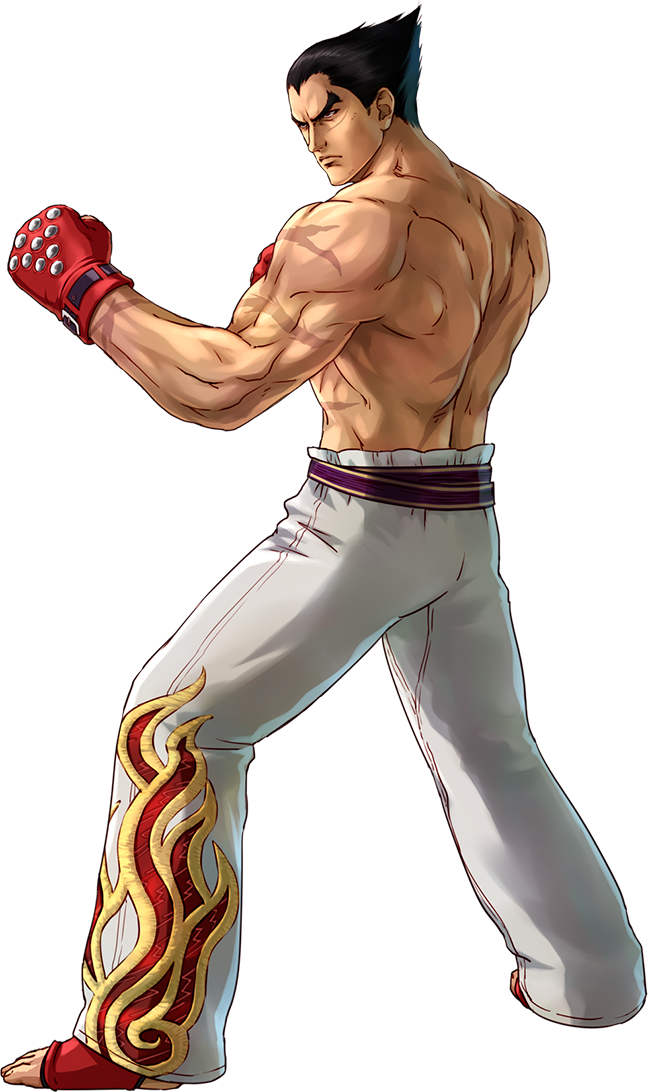
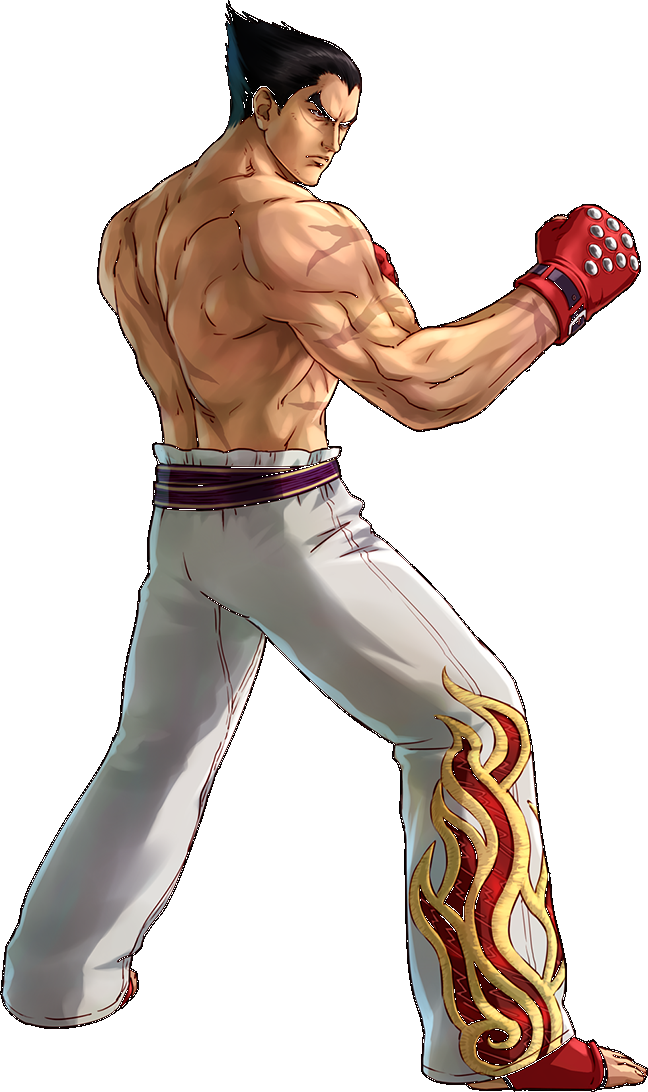
flipped works

diff --git a/src/app/components/character-select/character-select.component.ts b/src/app/components/character-select/character-select.component.ts
@@ -6,37 +6,68 @@ import { Component, OnInit } from '@angular/core';
   styleUrls: ['./character-select.component.css']
 })
 export class CharacterSelectComponent implements OnInit {
-  char1: string;
+  character1: string;
+  character1temp: string;
   char1Name: string;
-  char2: string;
+
+  character2: string;
+  character2temp: string;
   char2Name: string;
+
   currentPlayer: string;
 
   constructor() { }
 
   ngOnInit(): void {
-    this.currentPlayer = "player1";
+    this.currentPlayer = 'player1';
+    this.character1temp = 'player1';
+    this.character2temp = 'player2';
   }
 
   select(character: string) {
-
-    if(this.currentPlayer === "player1"){
-      this.char1 = character;
-      if(character === 'jin') this.char1Name = 'Jin Kazama';
-      if(character === 'kazuya') this.char1Name = 'Kazuya Mishima';
-      if(character === 'paul') this.char1Name = 'Paul Phoenix';
-      if(character === 'king') this.char1Name = 'King';
+    if (this.currentPlayer === "player1") {
+      this.character1 = character;
+      this.character1temp = character;
+      this.char1Name = this.setCharName(character);
     } else {
-      this.char2 = character;
-      if(character === 'jin') this.char2Name = 'Jin Kazama';
-      if(character === 'kazuya') this.char2Name = 'Kazuya Mishima';
-      if(character === 'paul') this.char2Name = 'Paul Phoenix';
-      if(character === 'king') this.char2Name = 'King';
+      this.character2 = character;
+      this.character2temp = character;
+      this.char2Name = this.setCharName(character);
     }
-
   }
 
-  alert(){
+  preview(character: string) {
+    if (this.currentPlayer === "player1") {
+      this.character1temp = this.character1;
+      this.character1 = character;
+      this.char1Name = this.setCharName(character);
+    } else {
+      this.character2temp = this.character2;
+      this.character2 = character;
+      this.char2Name = this.setCharName(character);
+    }
+  }
+
+  endPreview() {
+    if (this.currentPlayer === "player1") {
+      this.character1 = this.character1temp;
+      this.char1Name = this.setCharName(this.character1);
+    } else {
+      this.character2 = this.character2temp;
+      this.char2Name = this.setCharName(this.character2);
+    }
+  }
+
+  setCharName(character: string): string {
+    let charName: string;
+    if (character === 'jin') charName = 'Jin Kazama';
+    if (character === 'kazuya') charName = 'Kazuya Mishima';
+    if (character === 'paul') charName = 'Paul Phoenix';
+    if (character === 'king') charName = 'King';
+    return charName;
+  }
+
+  alert() {
     console.log(this.currentPlayer);
   }
 

diff --git a/src/app/components/character-select/character-select.component.html b/src/app/components/character-select/character-select.component.html
@@ -3,34 +3,34 @@
     <div class="title">
         <h1>Tekken</h1>
 
-        <select (click)="alert()" [(ngModel)]="currentPlayer" name="player">
+        <select [ngClass]="{'selectedRed':currentPlayer==='player1', 'selectedBlue':currentPlayer==='player2'}" (click)="alert()" [(ngModel)]="currentPlayer" name="player">
             <option value="player1">Player 1</option>
             <option value="player2">Player 2</option>
         </select>
     </div>
 
     <div class="charNames">
-        <div class="name1">{{char1Name}}</div>
-        <div class="name2">{{char2Name}}</div>
+        <div>{{char1Name}}</div>
+        <div>{{char2Name}}</div>
     </div>
 
     <div class="characters">
-        <div [ngClass]="char1"></div>
-        <div [ngClass]="char2"></div>
+        <div class="character1" [ngClass]="character1"></div>
+        <div class="character2" [ngClass]="character2"></div>
     </div>
 
     <div class="charList">
         <ul>
-            <a (mouseenter)="select('jin')" [ngClass]="{'selected':char1==='jin'}">
+            <a (click)="select('jin')" (mouseenter)="preview('jin')" (mouseleave)="endPreview()" [ngClass]="{'selectedRed':character1temp==='jin', 'selectedBlue':character2temp==='jin', 'selectedBoth': (character1temp==character2temp&&character1temp==='jin')}">
                 <li></li>
             </a>
-            <a (mouseenter)="select('paul')" [ngClass]="{'selected':char1==='paul'}">
+            <a (click)="select('paul')" (mouseenter)="preview('paul')" (mouseleave)="endPreview()" [ngClass]="{'selectedRed':character1temp==='paul', 'selectedBlue':character2temp==='paul', 'selectedBoth': (character1temp==character2temp&&character1temp==='paul')}">
                 <li></li>
             </a>
-            <a (mouseenter)="select('king')" [ngClass]="{'selected':char1==='king'}">
+            <a (click)="select('king')" (mouseover)="preview('king')" (mouseleave)="endPreview()" [ngClass]="{'selectedRed':character1temp==='king', 'selectedBlue':character2temp==='king', 'selectedBoth': (character1temp==character2temp&&character1temp==='king')}">
                 <li></li>
             </a>
-            <a (mouseenter)="select('kazuya')" [ngClass]="{'selected':char1==='kazuya'}">
+            <a (click)="select('kazuya')" (mouseover)="preview('kazuya')" (mouseleave)="endPreview()" [ngClass]="{'selectedRed':character1temp==='kazuya', 'selectedBlue':character2temp==='kazuya', 'selectedBoth': (character1temp==character2temp&&character1temp==='kazuya')}">
                 <li></li>
             </a>
         </ul>

diff --git a/src/app/components/character-select/character-select.component.css b/src/app/components/character-select/character-select.component.css
@@ -10,14 +10,18 @@
 }
 
 select {
-    padding: 5px 65px;
+    padding: 5px 77px;
     text-transform: uppercase;
+}
+
+select:focus {
+    outline: none;
 }
 
 .title {
     color: white;
     font-size: 30px;
-    margin-bottom: 30px;
+    margin-bottom: 20px;
     text-align: center;
     text-transform: uppercase;
 }
@@ -36,6 +40,10 @@ select {
 
 .characters {
     display: flex;
+}
+
+.character2{
+    transform: scaleX(-1);
 }
 
 .characters div {
@@ -60,7 +68,7 @@ select {
 
 .paul {
     background-image: url('../../../assets/characters/paul.png');
-    background-position: 100px 0px;
+    background-position: 10px 0px;
     background-size: 80%;
     background-repeat: no-repeat;
 }
@@ -111,9 +119,20 @@ select {
 }
 
 .charList ul a:hover {
-    border: 2px red solid;
+    border: 2px white solid;
 }
 
-.selected {
+.selectedRed {
     border: 2px solid red !important;
+}
+
+.selectedBlue {
+    border: 2px solid blue !important;
+}
+
+.selectedBoth {
+    border-left: 2px solid blue !important;
+    border-top: 2px solid blue !important;
+    border-right: 2px solid red !important;
+    border-bottom: 2px solid red !important;
 }

diff --git a/src/app/app.module.ts b/src/app/app.module.ts
@@ -16,7 +16,7 @@ import { CharacterSelectComponent } from './components/character-select/characte
   imports: [
     BrowserModule, FormsModule,
     RouterModule.forRoot([
-      { path: '', redirectTo: 'home', pathMatch: 'full' },
+      { path: '', redirectTo: 'character-select', pathMatch: 'full' },
       { path: 'home', component: HomeComponent },
       { path: 'character-select', component: CharacterSelectComponent },
     ]),

diff --git a/src/styles.css b/src/styles.css
@@ -14,8 +14,8 @@ ul {
 }
 
 .mainContainer {
-    background-color: yellow;
-    background-image: url('https://cdn.suwalls.com/wallpapers/space/red-nebula-42917-3840x2160.jpg');
+    background-color: #DDDDDD;
+    /* background-image: url('https://cdn.suwalls.com/wallpapers/space/red-nebula-42917-3840x2160.jpg'); */
     background-size: cover;
     height: 100vh;
     margin: 0 auto;
